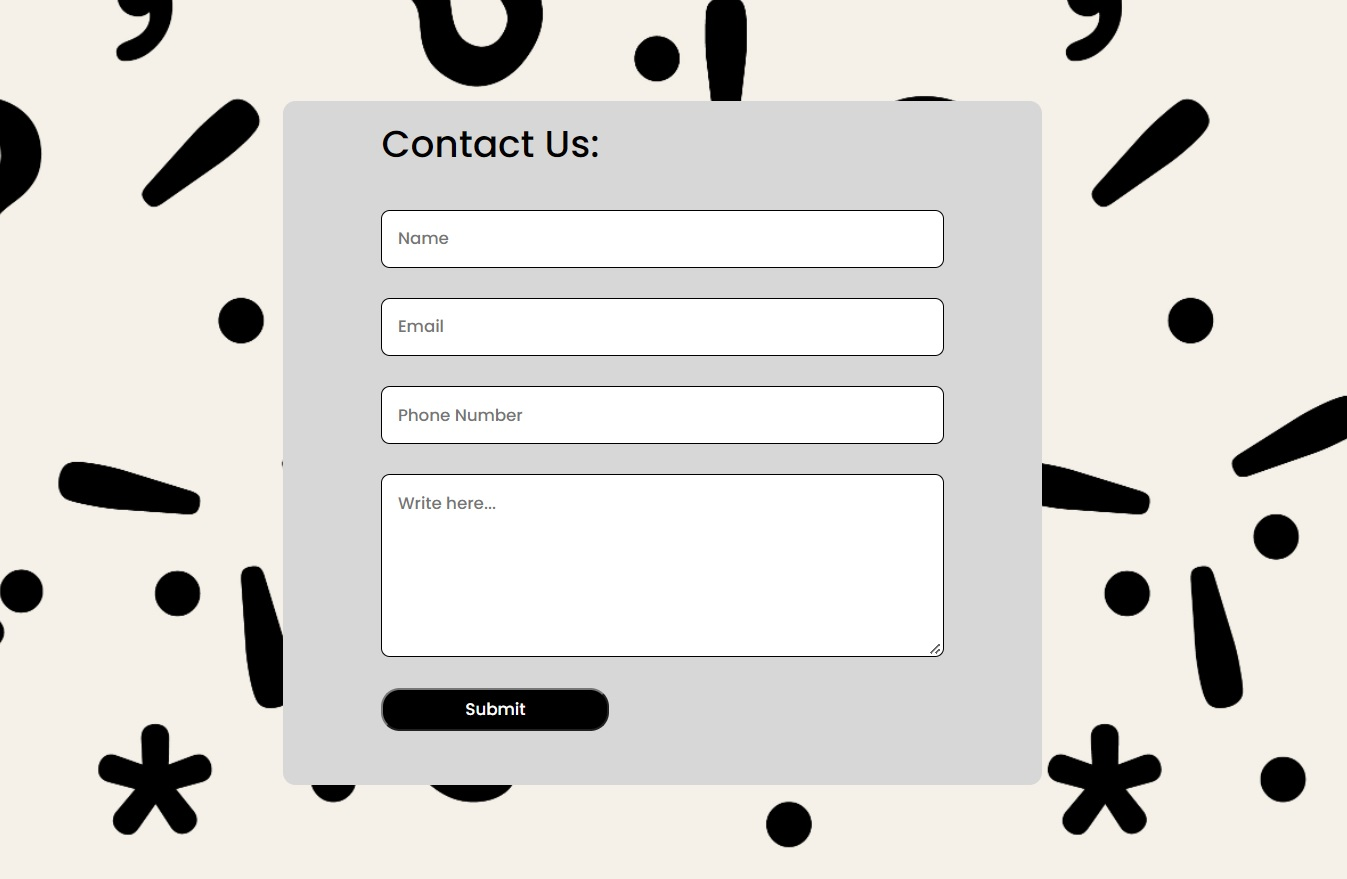
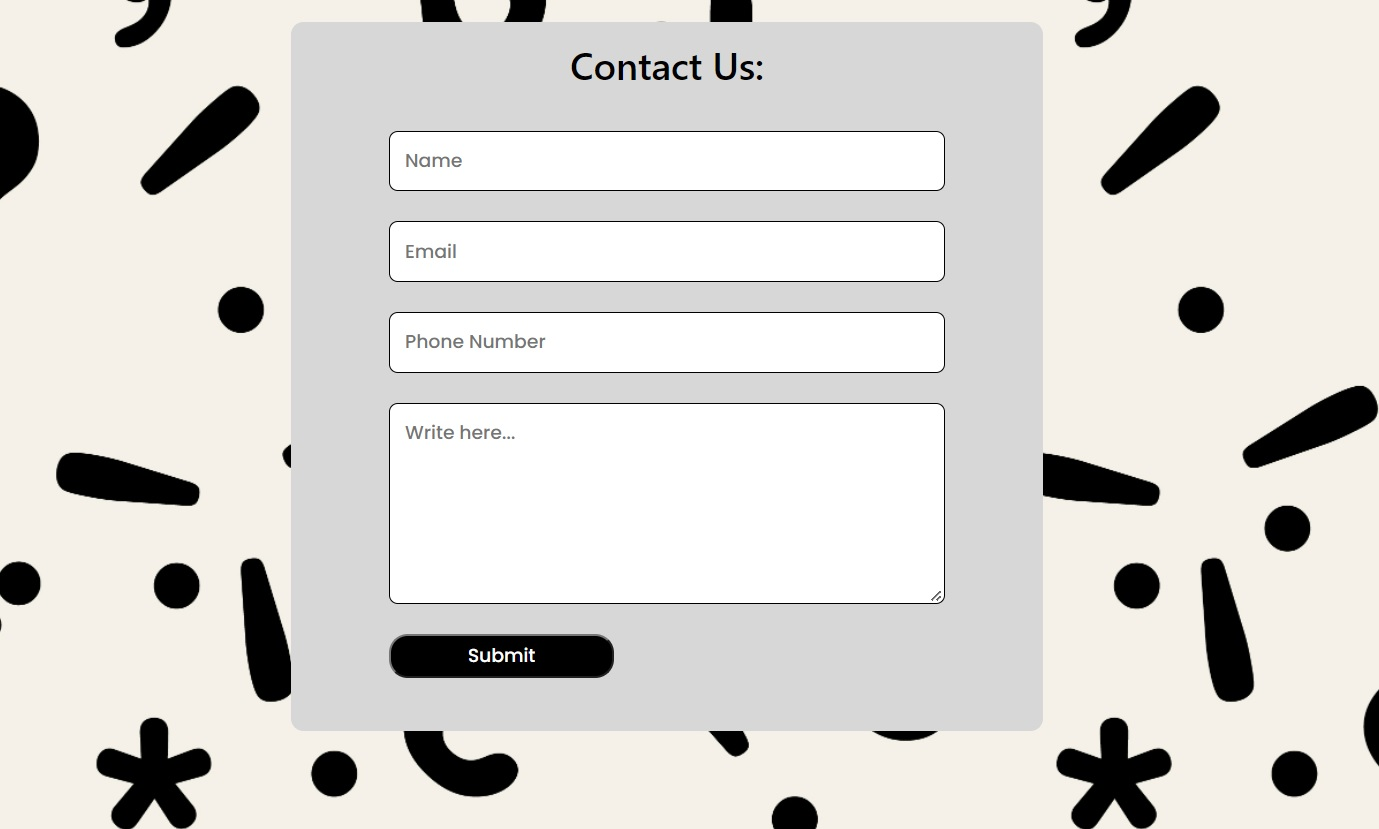
Add screenshots to user story 4 in README.md

diff --git a/assets/css/feedback.css b/assets/css/feedback.css
@@ -16,8 +16,8 @@ form h1 {
     font-size: 30px;
     font-weight: 500;
     margin-bottom: 3%;
-    margin-left: 13%;
     margin-top: 2%;
+    text-align: center;
 }
 
 form input {

diff --git a/README.md b/README.md
@@ -419,7 +419,9 @@ The website was tested on the browsers listed below:
 |-------------|------------|---------------------|-------------------|
 | Contact site owner/admin | User either fill is form or contact via email or call | User contacts admin successfully | Works as expected |
 <details><summary>Screenshots</summary>
-<img src=""></details>
+<img src="docs/storytest/contactstorytest1.jpg">
+<img src="docs/storytest/contactstorytest2.jpg">
+</details>
 
 5. I want to be able share the website via social media.
 
@@ -443,7 +445,10 @@ The website was tested on the browsers listed below:
 |-------------|------------|---------------------|-------------------|
 | Browser compatibility | View website on various browsers | Site should work properly | Works as expected |
 <details><summary>Screenshots</summary>
-<img src=""></details>
+<img src="docs/storytest/chrome.jpg">
+<img src="docs/storytest/edge.jpg">
+<img src="docs/storytest/firefox.jpg">
+</details>
 
 8. I want users to be able to track their progress.
 
